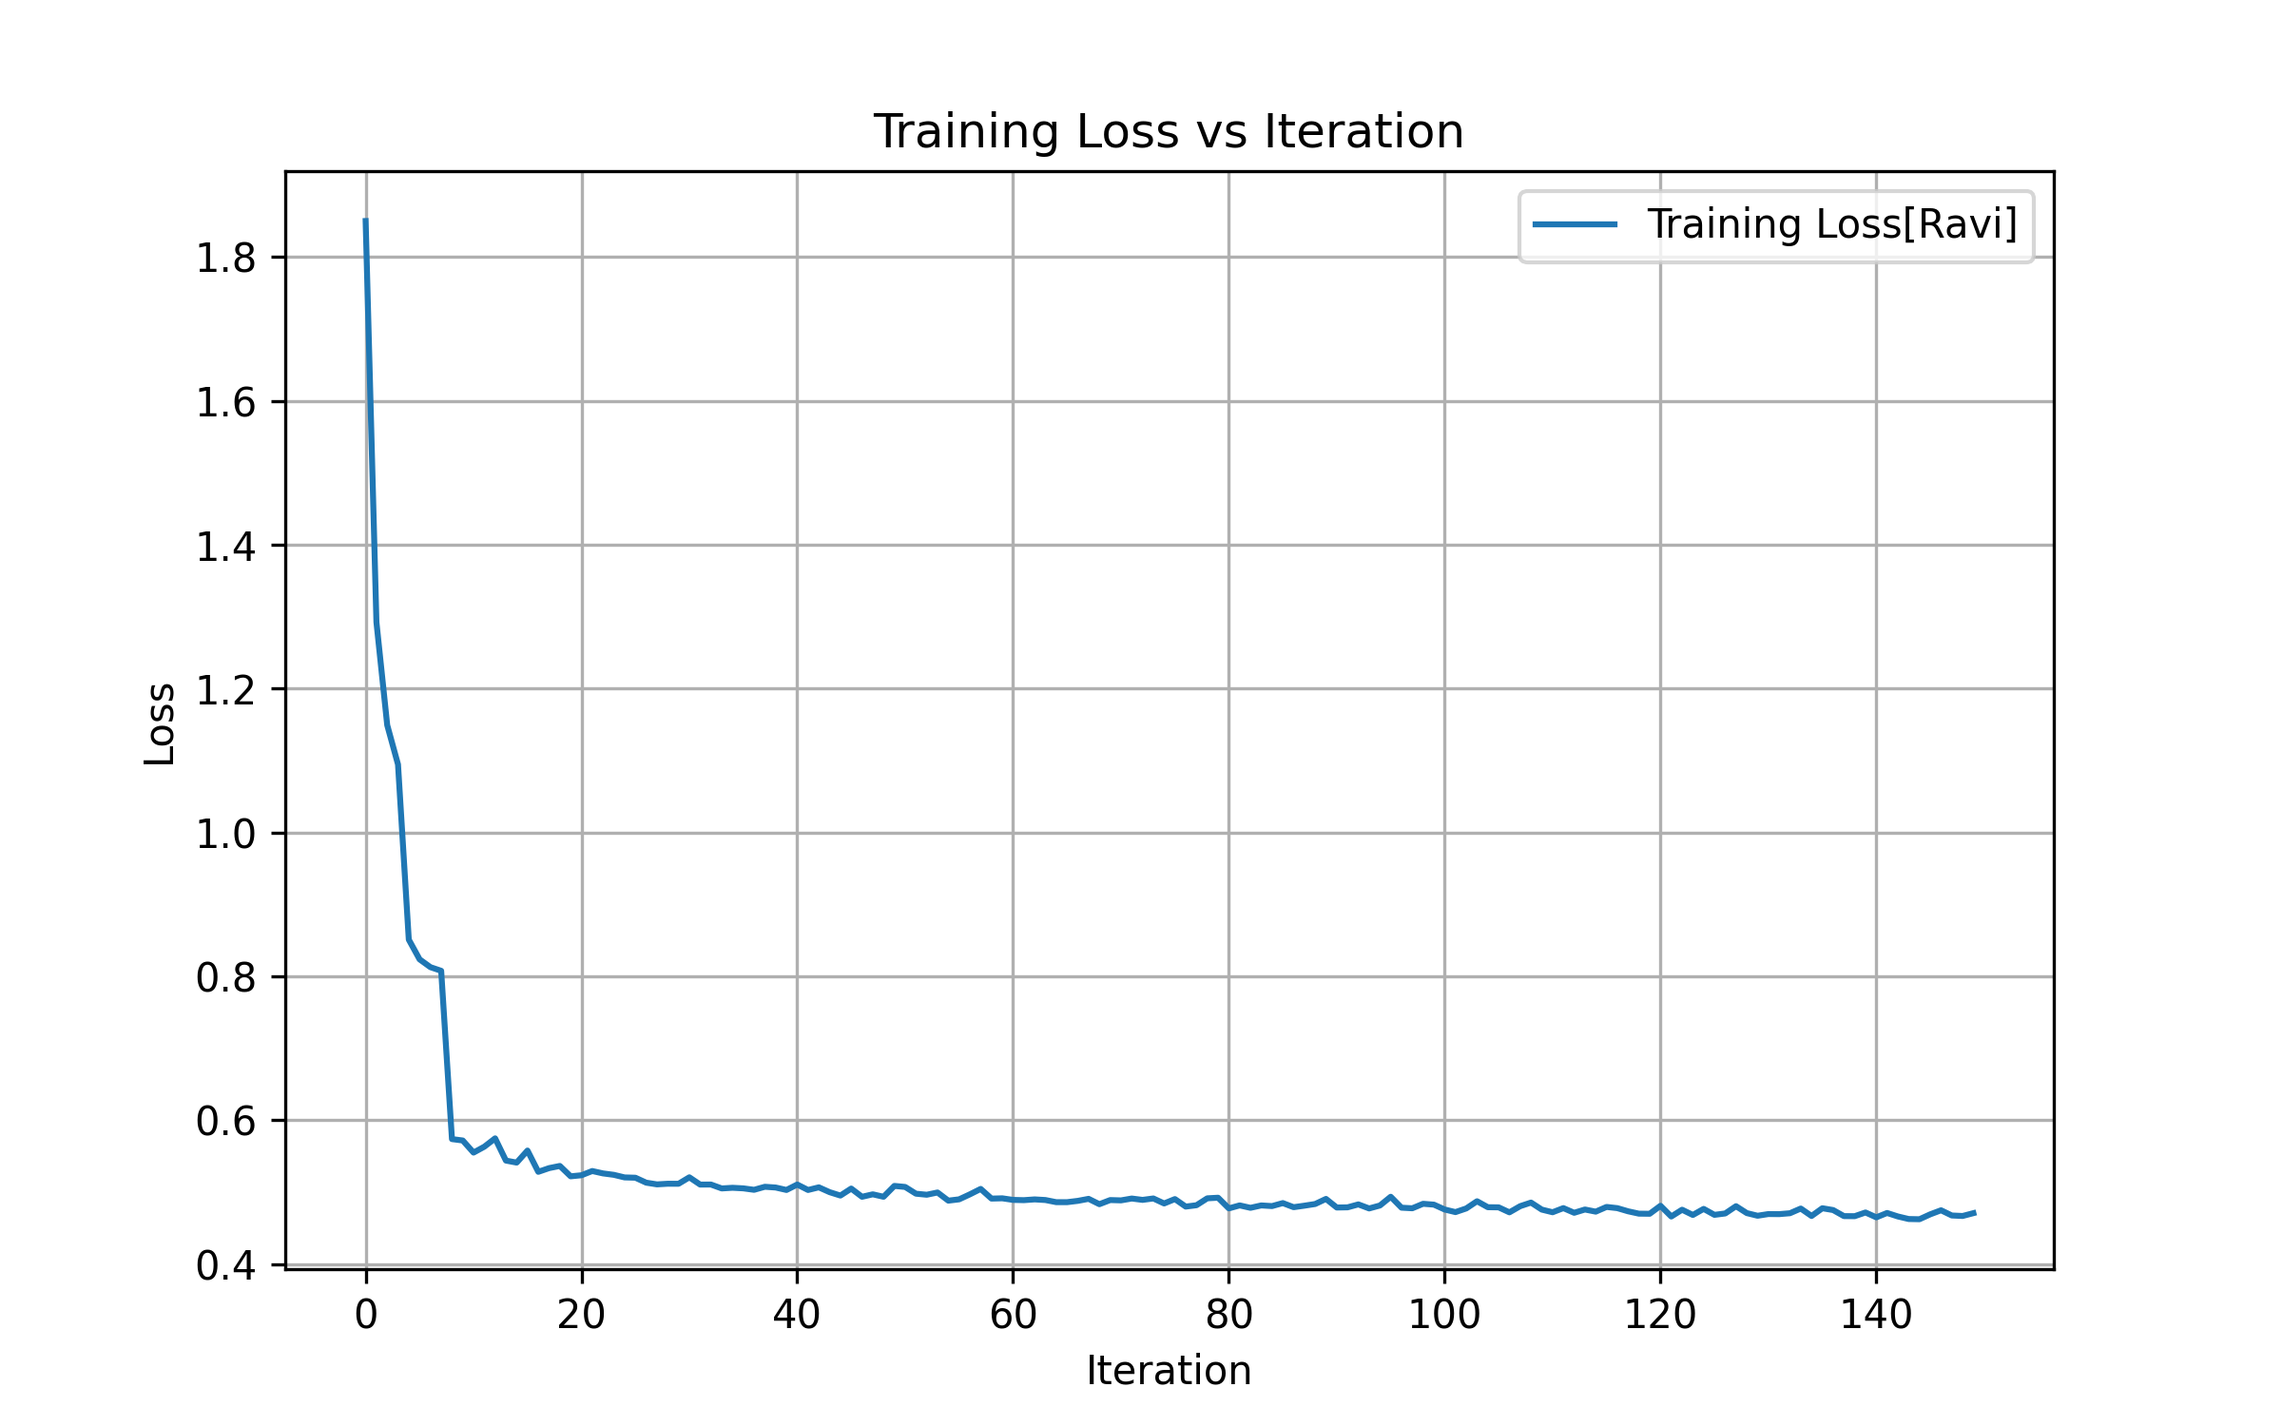
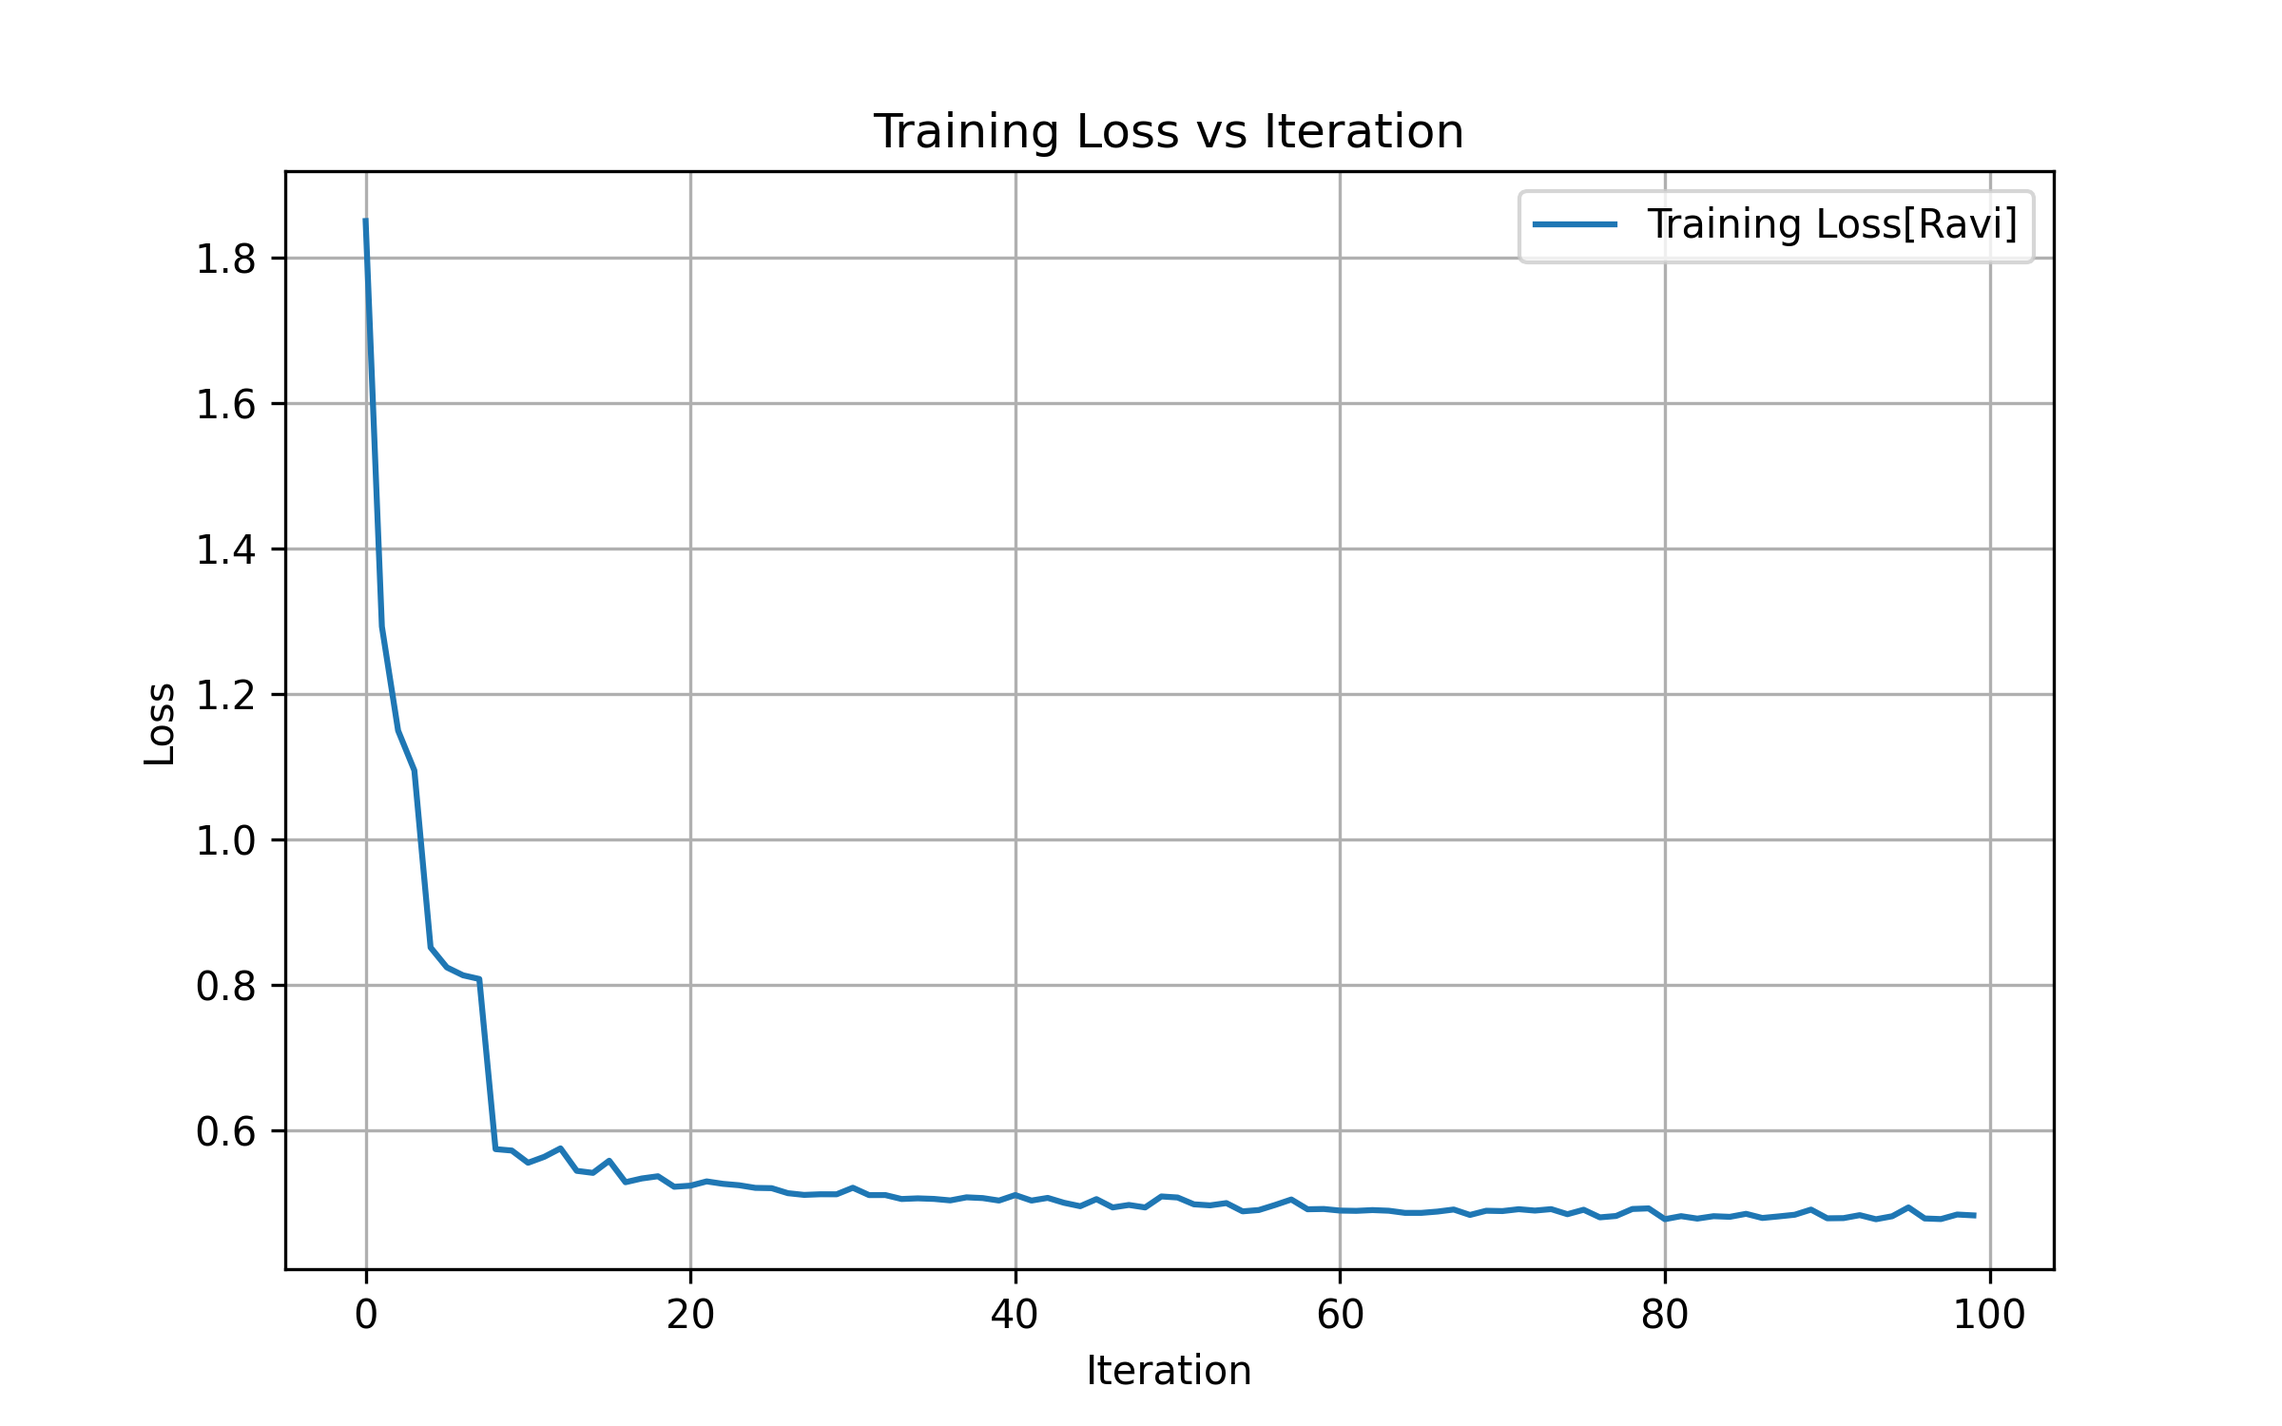
Typed Up Problem #2

diff --git a/Homework #1/homework1.tex b/Homework #1/homework1.tex
@@ -52,7 +52,8 @@ Collaborators: N/A
 \end{array}
         \end{align}
 
-    where $C$ is a hyperparameter and our optimization variables are $\theta, \theta_0, \xi_1, \cdots, \xi_n$. From \eqref{eq:1a-1}, we observe that a larger value of $C$ places a stronger penalty on slack, reducing the margin and prioritizing correct classification of training points. Conversely, a smaller value of $C$ allows more slack, resulting in a wider margin and greater tolerance for misclassifications.  
+    where $C$ is a hyperparameter and our optimization variables are $\theta, \theta_0, \xi_1, \cdots, \xi_n$. \\
+    \noindent From \eqref{eq:1a-1}, we observe that a larger value of $C$ places a stronger penalty on slack, reducing the margin and prioritizing correct classification of training points. Conversely, a smaller value of $C$ allows more slack, resulting in a wider margin and greater tolerance for misclassifications.  
 
 \textbf{\underline{Answer:}} The objective function is $\frac{1}{2} \|\theta\|^2 +  C \sum_{i = 1}^n \xi_i$, where $C$ is a hyperparameter as described above
 
@@ -68,7 +69,7 @@ Collaborators: N/A
 
     % https://chatgpt.com/c/68bb1aad-1140-832b-918c-fa8c29b1b32d
     % https://www.csie.ntu.edu.tw/~cjlin/papers/libsvm.pdf
-    \noindent In the Soft Margin case, support samples can lie on the margin, inside the margin boundaries, or even be a misclassified point. 
+    \noindent In the Soft Margin case, support samples can lie on the margin, within the margin boundaries, or even be a misclassified point. 
     \item[(c)] Check Code
     
     %C-SVM:https://www.csie.ntu.edu.tw/~cjlin/papers/libsvm.pdf
@@ -85,46 +86,46 @@ Collaborators: N/A
     When running the given SVM Classifier, here are the experimental results \\
     \textbf{Experimental Results:}
     \begin{itemize}
-        \item Training Accuracy: $1$
-        \item Training Error: $0$
-        \item Validation Accuracy: $0.0875$
-        \item Validation Error: $0.9125$
-        \item Support Vector Ratio: $1.0$
-        \item Test Accuracy: $\approx 0.1014$
-        \item Test Error: $\approx 0.8986$
+        \item Training Accuracy: 
+        \item Training Error: 
+        \item Validation Accuracy: 
+        \item Validation Error: 
+        \item Support Vector Ratio: 
+        \item Test Accuracy: 
+        \item Test Error: 
     \end{itemize}
 
-    \begin{figure}[h!]
-        \centering
-        \includegraphics[width=0.5\linewidth]{confusion_matrix_1d.png}
-        \caption{Confusion Matrix}
-        \label{fig:placeholder}
-    \end{figure}
+    % \begin{figure}[h!]
+    %     \centering
+    %     \includegraphics[width=0.5\linewidth]{confusion_matrix_1d.png}
+    %     \caption{Confusion Matrix}
+    %     \label{fig:placeholder}
+    % \end{figure}
 
-\textbf{Identifying the Pattern:} \\
-From the confusion matrix, we can see that the SVM classifier predicts only $9$ for all test samples, which is the clear pattern here.  \\
+% \textbf{Identifying the Pattern:} \\
+% From the confusion matrix, we can see that the SVM classifier predicts only $9$ for all test samples, which is the clear pattern here.  \\
 
-\textbf{Intuitive Explanation: } \\
-To understand this behavior, we examine the classifier's hyperparameters, starting with $\gamma$. By default, $\gamma = \tfrac{1}{n_{\text{features}} \cdot X.var()}$, but in our case we set $\gamma = \text{auto}$, which instead uses $\gamma = \tfrac{1}{n_{\text{features}}}$. For our dataset, $X.var() \approx 5164$, so choosing $\gamma = \text{auto}$ made our $\gamma$ value about $5164$ times larger than the default. From our earlier discussion, we know that having a higher $\gamma$ value restricts each point's influence to a narrow area, enabling the model to fit the training data closely, which can increase overfitting and reduce generalization. \\
+% \textbf{Intuitive Explanation: } \\
+% To understand this behavior, we examine the classifier's hyperparameters, starting with $\gamma$. By default, $\gamma = \tfrac{1}{n_{\text{features}} \cdot X.var()}$, but in our case we set $\gamma = \text{auto}$, which instead uses $\gamma = \tfrac{1}{n_{\text{features}}}$. For our dataset, $X.var() \approx 5164$, so choosing $\gamma = \text{auto}$ made our $\gamma$ value about $5164$ times larger than the default. From our earlier discussion, we know that having a higher $\gamma$ value restricts each point's influence to a narrow area, enabling the model to fit the training data closely, which can increase overfitting and reduce generalization. \\
 
 \noindent \textbf{Extra: Improving Performance by Tweaking $\gamma$ to $\text{scale}$} \\
 \textbf{Experimental Results:}
     \begin{itemize}
-        \item Training Accuracy: $0.98125$
-        \item Training Error: $0.01875$
-        \item Validation Accuracy: $0.96$
-        \item Validation Error: $0.04$
-        \item Support Vector Ratio: $0.380375$
-        \item Test Accuracy: $\approx 0.9578$
-        \item Test Error: $\approx 0.0422$
+        \item Training Accuracy: 
+        \item Training Error: 
+        \item Validation Accuracy: 
+        \item Validation Error: 
+        \item Support Vector Ratio: 
+        \item Test Accuracy: 
+        \item Test Error: 
     \end{itemize}
 
-\begin{figure}[h!]
-    \centering
-    \includegraphics[width=0.5\linewidth]{confusion_matrix_1d_2.png}
-    \caption{Confusion Matrix}
-    \label{fig:placeholder}
-\end{figure}
+% \begin{figure}[h!]
+%     \centering
+%     \includegraphics[width=0.5\linewidth]{confusion_matrix_1d_2.png}
+%     \caption{Confusion Matrix}
+%     \label{fig:placeholder}
+% \end{figure}
 
 \item[(e)] We will list out the parameters from Scikit-learn and analyze each of them: 
 \begin{itemize}
@@ -149,13 +150,69 @@ To understand this behavior, we examine the classifier's hyperparameters, starti
 \end{solution}
 
 \clearpage
-\begin{solution}[Time spent: 1 hour]
-Your solution goes here.
+% https://stanford.edu/class/ee364b/lectures/subgradients_notes.pdf
+\begin{solution}[Time spent: 20 minutes] \\
+Since $\varphi$ is convex and finite, its subdifferential (i.e., the set of all subgradients) at $\mu$ is defined as
+\[
+\partial \varphi(\mu) := \{\, y \in \mathbb{R}^n : \varphi(x) \geq \varphi(\mu) + y^\top (x - \mu) \;\; \text{for all } x \in \mathbb{R}^n \,\},
+\]
+and is guaranteed to be \textbf{\underline{nonempty}}, provided that $\mu \in \operatorname{int}(\operatorname{dom}\varphi)$. \\
+
+\noindent \textit{Note: If $\mu$ lies on the boundary of the domain, the subgradient inequality is trivial, since the right-hand side can go to $-\infty$. Therefore, for the remainder of the proof, we assume $\mu \in \operatorname{int}(\operatorname{dom}\varphi)$.} \\
+
+
+
+\noindent We begin by denoting an arbitrary subgradient $g \in \partial \varphi(\mu)$. By definition of a subgradient, we have
+\[
+\varphi(x)\ge \varphi(\mu)+ g^\top \left(x-\mu\right)
+\]
+for all $x \in \mathbb{R}^n$ \\
+
+Applying the above inequality to the random vector \(X\) gives us the following
+\[
+\varphi(X)\ge \varphi(\mu)+ g^\top \left(X-\mu\right)
+\]
+
+Taking Expectation of both sides of the inequality gives us 
+\[
+\mathbf{E} \left[ \varphi(X) \right]\ge \mathbf{E} \left[ \varphi(\mu)+ g^\top \left(X-\mu\right) \right]
+\]
+
+Using Linearity of Expectation, we see that
+\[
+\mathbf{E} \left[ \varphi(X) \right]\ge \mathbf{E} \left[ \varphi(\mu) \right] + \mathbf{E} \left[ g^\top \left(X-\mu\right) \right]
+\]
+
+We use Linearity of Expectation on $\mathbf{E} \left[ g^\top \left(X-\mu\right) \right]$ to further simplify
+\[
+\mathbf{E} \left[ \varphi(X) \right]\ge \mathbf{E} \left[ \varphi(\mu) \right] + g^\top \cdot \mathbf{E} \left[\left(X-\mu\right) \right]
+\]
+
+Using Linearity of Expectation on $\mathbf{E} \left[\left(X-\mu\right) \right]$, we simplify 
+\[
+\mathbf{E} \left[ \varphi(X) \right]\ge \mathbf{E} \left[ \varphi(\mu) \right] + g^\top \cdot \left( \mathbf{E} \left[X \right] - \mathbf{E} \left[\mu \right] \right)
+\]
+
+Finally, we use the fact that $\varphi(\mu)$ and $\mu$ are deterministic and that \(\mathbb{E}[X]=\mu\) to simplify
+\[
+\mathbf{E} \left[ \varphi(X) \right]\ge \varphi(\mu) + g^\top \cdot \left( \mu - \mu \right)
+\]
+\[
+\mathbf{E} \left[ \varphi(X) \right]\ge \varphi(\mu) + g^\top \cdot \left( 0 \right)
+\]
+\[
+\mathbf{E} \left[ \varphi(X) \right]\ge \varphi(\mu)
+\]
+
+This proves the claimed inequality.
+
 \end{solution}
 
 \clearpage
 \begin{solution}[Time spent: 1 hour]
-Your solution goes here.
+\begin{enumerate}
+    \item[(a)]
+\end{enumerate}
 \end{solution}
 
 \end{document}

diff --git a/Homework #1/problem1.py b/Homework #1/problem1.py
@@ -48,7 +48,7 @@ x_train, x_val, y_train, y_val = train_test_split(x, y, test_size=0.2, random_st
 
 ## Part (d)
 from sklearn import svm
-classifier = svm.SVC(C = 1.0, kernel = 'rbf', gamma = 'auto')
+classifier = svm.SVC(C = 1.0, kernel = 'rbf', gamma = 'scale')
 
 ### Fit to training data
 classifier.fit(x_train, y_train)
@@ -140,59 +140,71 @@ from skimage.filters import gabor_kernel , gabor
 import matplotlib.pyplot as plt
 freq, theta, bandwidth = 0.1, np.pi/4, 1
 gk = gabor_kernel(frequency=freq, theta=theta, bandwidth=bandwidth)
-plt.figure(1); plt.clf(); plt.imshow(gk.real); plt.show()
-plt.figure(2); plt.clf(); plt.imshow(gk.imag); plt.show()
+plt.figure(1); plt.clf(); plt.imshow(gk.real); plt.title("Real Gabor Coefficients"); plt.savefig("real_coeff_gabor.png")
+plt.figure(2); plt.clf(); plt.imshow(gk.imag); plt.title("Imaginary Gabor Coefficients"); plt.savefig("img_coeff_gabor.png")
 
 # convolve the input image with the kernel and get co-efficients
 # we will use only the real part and throw away the imaginary
 # part of the co-efficients
 image = x[0].reshape((14,14))
-plt.figure(1); plt.clf(); plt.imshow(image); plt.show()
+plt.figure(3); plt.clf(); plt.title("Sample Image"); plt.imshow(image); plt.savefig("img_0.png")
 
 coeff_real, _ = gabor(image, frequency=freq, theta=theta, bandwidth=bandwidth)
-plt.figure(1); plt.clf(); plt.imshow(coeff_real); plt.show()
+plt.figure(4); plt.clf(); plt.title("Real Coefficients of Gabor Convolution"); plt.imshow(coeff_real); plt.savefig("real_coeff_img_0.png")
 
 ## Part (j)
-theta = np.arange(0,np.pi,np.pi/4)
-frequency = np.arange(0.05,0.5,0.15)
-bandwidth = np.arange(0.3,1,0.3)
+thetas = np.arange(0,np.pi,np.pi/4)
+frequencies = np.arange(0.05,0.5,0.15)
+bandwidths = np.arange(0.3,1,0.3)
 
-filters = []
-for i in theta:
-    for j in frequency:
-        for k in bandwidth:
-            filters.append((i, j, k))
-
+# Create Filter Matrix where each row is a filter
+T, F, B = np.meshgrid(thetas, frequencies, bandwidths, indexing="ij")
+filters = np.column_stack([T.ravel(), F.ravel(), B.ravel()])
 print(f"Total filters: {len(filters)}")  # should be 36
 
 # Plotting filter bank
-fig, axes = plt.subplots(len(theta), len(frequency) * len(bandwidth), figsize=(18, 6))
+fig, axes = plt.subplots(len(thetas), len(frequencies) * len(bandwidths), figsize=(18, 6))
 axes = axes.ravel()
 
-for i, (theta, freq, bw) in enumerate(filters):
+for i, filter in enumerate(filters):
+    theta, freq, bw = filter[0], filter[1], filter[2]
     kernel = np.real(gabor_kernel(frequency=freq, theta=theta, bandwidth=bw))
     axes[i].imshow(kernel, cmap='gray')
     axes[i].set_title(f"θ={theta:.2f}, f={freq:.2f}, bw={bw:.2f}", fontsize=8)
     axes[i].axis("off")
 
+fig.suptitle("Gabor Filter Bank")  # global title
 plt.tight_layout()
-plt.show()
+plt.savefig("gabor_filter_bank.png")
 
+# Define function to extract gabor features given images, filter bank
+def extract_gabor_features(images, filters, img_shape=(14, 14)):
+    n_imgs = len(images)
+    n_filters = len(filters)
+    n_feats_per_filter = img_shape[0] * img_shape[1]
 
-# Extract Gabor Features from images using the Gabor Filter Bank
-def extract_gabor_features(images, filters):
-    feats = []
-    for img in images:
-        img_feats = []
-        for theta, freq, bw in filters:
-            real, imag = gabor(img, frequency=freq, theta=theta, bandwidth=bw)
-            img_feats.extend(real.flatten())
-        feats.append(img_feats)
-    return np.array(feats)
+    # Pre-allocate output array
+    feats = np.empty((n_imgs, n_filters * n_feats_per_filter), dtype=np.float32)
 
+    for i, img in enumerate(images):
+        print(f"Index: {i}")
+        img_reshaped = img.reshape(img_shape)
+
+        # Collect features for all filters
+        img_feats = [
+            gabor(img_reshaped, frequency=freq, theta=theta, bandwidth=bw)[0].ravel()
+            for theta, freq, bw in filters
+        ]
+
+        feats[i, :] = np.concatenate(img_feats)
+
+    return feats
+
+# Extract gabor features for train + test
 X_train_feats = extract_gabor_features(x_train, filters)
-X_test_feats = extract_gabor_features(x_test, filters)
+X_test_feats  = extract_gabor_features(x_test, filters)
 
+print("Finished extracting Gabor Features")
 
 # Run PCA
 from sklearn.decomposition import PCA

diff --git a/Homework #1/problem3.py b/Homework #1/problem3.py
@@ -527,7 +527,7 @@ training_losses = []
 training_errors = []
 validation_losses = []
 validation_errors = []
-epochs = 15000
+epochs = 10000
 for t in range(epochs):
     # 1. sample a mini-batch of size = 32
     # each image in the mini-batch is chosen uniformly randomly from the
@@ -556,15 +556,15 @@ for t in range(epochs):
     dw1, db1 = l1.dw, l1.db
     dw2, db2 = l2.dw, l2.db
     
-    # Store training loss/error every 100 weight updates
-    if (t + 1) % 100 == 0:
+    # Store training loss/error every 10 weight updates
+    if (t + 1) % 10 == 0:
         training_loss, training_error = validate(l1.w, l1.b, l2.w, l2.b, X_train, y_train, B)
         print(f"Epoch: {t + 1}, Training Loss: {training_loss}, Training Error: {training_error}")
         training_losses.append(training_loss)
         training_errors.append(training_error)
     
     # 6. Store validation loss/error every 1000 weight updates
-    if (t + 1) % 1000 == 0:
+    if (t + 1) % 100 == 0:
         validation_loss, validation_error = validate(l1.w, l1.b, l2.w, l2.b, X_val, y_val, B)
         print(f"Epoch: {t + 1}, Validation Loss: {validation_loss}, Validation Error: {validation_error}")
         validation_losses.append(validation_loss)
@@ -666,7 +666,7 @@ class NN(nn.Module):
 ## Hyperparameters
 batch_size = 32
 lr = 0.1
-epochs = 15000
+epochs = 10000
 
 # Convert NumPy arrays to torch tensors
 X_train_tensor = torch.tensor(X_train, dtype=torch.float32)
@@ -738,13 +738,13 @@ for epoch in range(epochs):
     loss.backward()
     optimizer.step()
     
-    if (epoch + 1) % 100 == 0:
+    if (epoch + 1) % 10 == 0:
         avg_train_loss, avg_train_error = validate_torch(X_train_tensor, y_train_tensor)
         print(f"Epoch: {epoch + 1}, Training Loss: {avg_train_loss}, Training Error: {avg_train_error}")
         training_losses.append(avg_train_loss)
         training_errors.append(avg_train_error)
 
-    if (epoch + 1) % 1000 == 0:
+    if (epoch + 1) % 100 == 0:
         avg_val_loss, avg_val_error = validate_torch(X_val_tensor, y_val_tensor)
         print(f"Epoch: {epoch + 1}, Validation Loss: {avg_val_loss}, Validation Error: {avg_val_error}")
         validation_losses.append(avg_val_loss)
